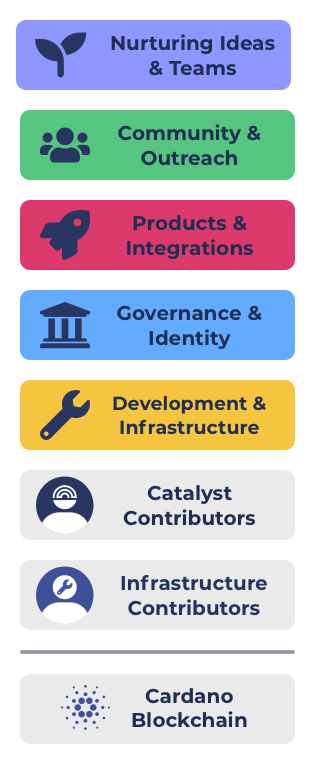
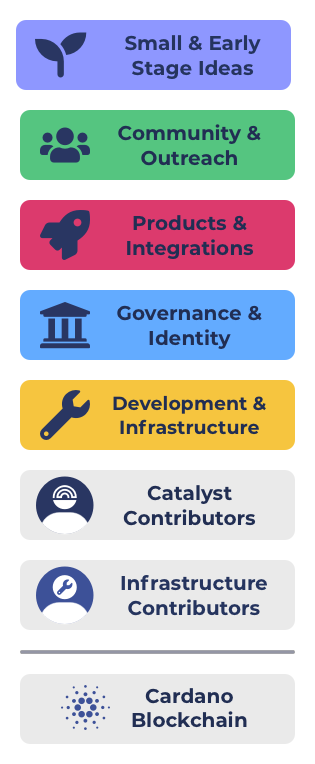
GitBook: [#166] No subject

Changed region(s): [[0.3429, 0.0301, 0.8857, 0.1204]]

diff --git a/idea-categories/small-and-early-stage-ideas.md b/idea-categories/small-and-early-stage-ideas.md
@@ -1,14 +1,14 @@
 ---
 description: >-
-  Nurturing ideas & teams aims to support, grow and diversify the ideas and
-  teams that exist in the ecosystem
+  Small & early stage ideas aims to support and nurture a diversity of ideas in
+  the ecosystem
 ---
 
-# Nurturing Ideas & Teams
+# Small & Early Stage Ideas
 
 ![](../.gitbook/assets/experimental-categories.png)
 
-Nurturing Ideas & Teams is an [experimental category](https://docs.catalystcontributors.org/idea-categorisation-analysis/experimental-categories-analysis/nurturing-ideas-and-team-category). It will need to be analysed once used to determine the overall impact of the category. Based on these learnings the category can either be removed or further refined if it creates sufficient impact.
+Small & early stage ideas is an [experimental category](https://docs.catalystcontributors.org/idea-categorisation-analysis/experimental-categories-analysis/nurturing-ideas-and-team-category). It will need to be analysed once used to determine the overall impact of the category. Based on these learnings the category can either be removed or further refined if it creates sufficient impact.
 
 
 
@@ -16,7 +16,7 @@ Nurturing Ideas & Teams is an [experimental category](https://docs.catalystcontr
 
 **Category Title**
 
-Nurturing Ideas & Teams
+Small & Early Stage Ideas
 
 **Category question**
 
@@ -48,7 +48,7 @@ Individual success metrics are added for the different types of proposal in the 
 
 **Overview**
 
-Nurturing Ideas is focused on the following important areas:
+Small & early stage ideas is focused on the following important areas:
 
 * New and existing ideas that can benefit from a smaller budget to nurture their initial exploration and growth efforts.
 * Support of new teams joining the ecosystem looking for some initial capital to start off their project.&#x20;
@@ -59,9 +59,9 @@ Nurturing Ideas is focused on the following important areas:
 
 The ecosystem needs to have a way to easily introduce and nurture new and existing ideas that could provide impact to the ecosystem.
 
-Having a category focussed on nurturing ideas can help to ensure that there is always exploration of new ideas, processes and approaches that could benefit the ecosystem.&#x20;
+Having a category focussed on supporting smaller or early stage ideas can help to ensure that there is always exploration of new ideas, processes and approaches that could benefit the ecosystem.&#x20;
 
-Nurturing ideas & teams is a category that applies a cap to the amount of funding a proposal can request. This provides a less competitive environment for teams to find initial funding to nurture their growth and evolution.
+Small & early stage ideas is a category that applies a cap to the amount of funding a proposal can request. This provides a less competitive environment for teams to find initial funding to nurture their growth and evolution.
 
 This category can be seen as an on ramp for new ideas and teams for trying out something to then show the community what they are capable of achieving.
 
@@ -83,7 +83,7 @@ Proposers should clearly identify what problem they are trying to solve, how the
 
 **Proposal maximum budget**
 
-The maximum proposal budget that can be requested is $40,000.&#x20;
+The maximum proposal budget that can be requested is $25,000.&#x20;
 
 ****
 

diff --git a/questions-and-discussion/faqs/using-both-categories-and-challenges.md b/questions-and-discussion/faqs/using-both-categories-and-challenges.md
@@ -37,7 +37,7 @@ The following looks to compare why the community may choose to use just categori
 * ****[**Broad categorisation disadvantages**](https://docs.catalystcontributors.org/idea-categorisation-analysis/categorisation-approaches/broad-vs-specific-categorisations) - Using just broad categories would mean getting all the disadvantages that are outlined in the analysis of the implications of broad categorisation. Those disadvantages include:
   * **Lower precision for directing funding** - Solving this issue is covered in [approaches for directing funding](https://docs.catalystcontributors.org/idea-categorisation-analysis/idea-categorisation-analysis/approaches-for-directing-funding)
   * **Lower proposal visibility** - Solving this issue is covered in [approaches for directing funding](https://docs.catalystcontributors.org/idea-categorisation-analysis/idea-categorisation-analysis/approaches-for-directing-funding)
-  * **Increased funding difficulty for smaller teams** - Solving this issue can be supported by a category for [nurturing ideas](../../idea-funding-categories/nurturing-ideas-and-teams.md) and also is helped by more [approaches for directing funding](https://docs.catalystcontributors.org/idea-categorisation-analysis/idea-categorisation-analysis/approaches-for-directing-funding)
+  * **Increased funding difficulty for smaller teams** - Solving this issue can be supported by a category for [small & early stage ideas](../../idea-categories/small-and-early-stage-ideas.md) and also is helped by more [approaches for directing funding](https://docs.catalystcontributors.org/idea-categorisation-analysis/idea-categorisation-analysis/approaches-for-directing-funding)
 
 ****
 

diff --git a/README.md b/README.md
@@ -25,7 +25,7 @@ Category types in the list below below include:
 
 The following funding categories are not currently adopted and are just suggestions. Some or all of them could be adopted at some point in the future for the Catalyst funding process.&#x20;
 
-<figure><img src=".gitbook/assets/funding-categories (1).png" alt=""><figcaption></figcaption></figure>
+<figure><img src=".gitbook/assets/funding-categories.png" alt=""><figcaption></figcaption></figure>
 
 **Community & Outreach**
 
@@ -59,11 +59,11 @@ Development & Infrastructure focuses on proposals that will help improve and mai
 
 ****
 
-**Nurturing Ideas & Teams**
+**Small & Early Stage Ideas**
 
-Nurturing Ideas & Teams is about exploring how we can help to foster growth for ideas and new teams forming in the ecosystem. Any proposal type is welcomed as long as it is about the Cardano ecosystem in someway. There is a $40,000 maximum budget for proposals which helps to increase the number and diversity of teams and ideas that can be funded.
+Small & Early Stage Ideas is about exploring how we can help to foster growth for ideas and new teams forming in the ecosystem. Any proposal type is welcomed as long as it is about the Cardano ecosystem in someway. There is a $40,000 maximum budget for proposals which helps to increase the number and diversity of teams and ideas that can be funded.
 
-**=>** [**Read the Nurturing Ideas & Teams brief**](idea-funding-categories/nurturing-ideas-and-teams.md)
+**=>** [**Read the Small & Early Stage Ideas brief**](idea-categories/small-and-early-stage-ideas.md)
 
 ****
 

diff --git a/budget-weighting-votes/fund-8/README.md b/budget-weighting-votes/fund-8/README.md
@@ -93,10 +93,10 @@ If the fund 9 total budget was $32 million and the community voted for 70% total
 * **Community & Outreach**
 * **Products & Integrations**
 * **Governance & Identity**
+* **Development & Infrastructure**
 * **Catalyst Contributors**
-* **Development & Node Operation**
-* **Cardano Contributors**
-* **Nurturing Ideas & Teams**
+* **Infrastructure Contributors**
+* **Small & Early Stage Ideas**
 
 ****
 
@@ -110,9 +110,9 @@ If the total funding allocation was $22,400,000, as per this first decision exam
 | Products & Integrations      | 20         | $4,480,000                |
 | Governance & Identity        | 20         | $4,480,000                |
 | Catalyst Contributors        | 7          | $1,568,000                |
-| Development & Node Operation | 25         | $5,600,000                |
-| Cardano Contributors         | 6          | $1,344,000                |
-| Nurturing Ideas & Teams      | 7          | $1,568,000                |
+| Development & Infrastructure | 25         | $5,600,000                |
+| Infrastructure Contributors  | 6          | $1,344,000                |
+| Small & Early Stage Ideas    | 7          | $1,568,000                |
 
 **NOTE**: The above example amounts would be rounded to the closest $25,000 as this is required in the funding process.
 

diff --git a/budget-weighting-votes/fund-9/README.md b/budget-weighting-votes/fund-9/README.md
@@ -54,9 +54,9 @@ This is a fund 9 vote for setting the budgets of the funding categories that are
 * **Products & Integrations**
 * **Governance & Identity**
 * **Development & Infrastructure**
-* **Nurturing Ideas & Teams**
+* **Small & Early Stage Ideas**
 * **Catalyst Contributors**
-* **Cardano Contributors**
+* **Infrastructure Contributors**
 
 ****
 
@@ -82,9 +82,9 @@ Applying some percentages to each category that add up to 100% produces the foll
 | Products & Integrations      | 20         | 2,560,000 ADA              |
 | Governance & Identity        | 20         | 2,560,000 ADA              |
 | Development & Infrastructure | 25         | 3,200,000 ADA              |
-| Nurturing Ideas & Teams      | 6          | 768,000 ADA                |
+| Small & Early Stage Ideas    | 6          | 768,000 ADA                |
 | Catalyst Contributors        | 7          | 896,000 ADA                |
-| Cardano Contributors         | 7          | 896,000 ADA                |
+| Infrastructure Contributors  | 7          | 896,000 ADA                |
 | **Total**                    | **100**    | **12,800,000 ADA**         |
 
 **NOTE**: The amounts in the example above would then need to be rounded to the closest 25,000 ADA. This is currently a required part of the funding process.

diff --git a/budget-weighting-votes/fund-8/voting-results-fund-8.md b/budget-weighting-votes/fund-8/voting-results-fund-8.md
@@ -16,9 +16,9 @@ description: Results for the fund 8 budget weighting vote
 * **Products & Integrations** - 21%
 * **Governance & Identity** - 16%
 * **Catalyst Contributors** - 11%
-* **Development & Node Operation** - 21%&#x20;
-* **Cardano Contributors** - 8%
-* **Nurturing Ideas & Teams** - 9%
+* **Development & Infrastructure** - 21%&#x20;
+* **Infrastructure Contributors** - 8%
+* **Small & Early Stage Ideas** - 9%
 
 
 
@@ -34,9 +34,9 @@ Total budget weighting allocated to all categories = $16,000,000 x 70% = $11,200
 * **Products & Integrations** - $2,350,000 (unrounded $2,352,000)
 * **Governance & Identity** - $1,800,000 (unrounded $1,792,000)
 * **Catalyst Contributors** - $1,225,000 (unrounded $1,232,000)
-* **Development & Node Operation** - $2,350,000 (unrounded $2,352,000)
-* **Cardano Contributors** - $900,000 (unrounded $896,000)
-* **Nurturing Ideas & Teams** - $1,000,000 (unrounded $1,008,000)
+* **Development & Infrastructure** - $2,350,000 (unrounded $2,352,000)
+* **Infrastructure Contributors** - $900,000 (unrounded $896,000)
+* **Small & Early Stage Ideas** - $1,000,000 (unrounded $1,008,000)
 
 ****
 

diff --git a/budget-weighting-votes/fund-9/fund-9-voting-results.md b/budget-weighting-votes/fund-9/fund-9-voting-results.md
@@ -10,9 +10,9 @@ description: Results for the fund 9 budget weighting vote
 * **Products & Integrations** - 3,000,000 ADA
 * **Governance & Identity** - 2,000,000 ADA
 * **Development & Infrastructure** - 2,925,000 ADA
-* **Nurturing Ideas & Teams** - 1,000,000 ADA
+* **Small & Early Stage Ideas** - 1,000,000 ADA
 * **Catalyst Contributors** - 1,100,000 ADA
-* **Cardano Contributors** - 975,000 ADA
+* **Infrastructure Contributors** - 975,000 ADA
 
 **Total**: 12,800,000 ADA
 

diff --git a/SUMMARY.md b/SUMMARY.md
@@ -8,7 +8,7 @@
 * [Products & Integrations](idea-funding-categories/products-and-integrations.md)
 * [Governance & Identity](idea-funding-categories/governance-and-identity.md)
 * [Development & Infrastructure](idea-funding-categories/development-and-infrastructure.md)
-* [Nurturing Ideas & Teams](idea-funding-categories/nurturing-ideas-and-teams.md)
+* [Small & Early Stage Ideas](idea-categories/small-and-early-stage-ideas.md)
 
 ## Contributor Categories
 

diff --git a/budget-weighting-votes/fund-8/budget-weighting-considerations.md b/budget-weighting-votes/fund-8/budget-weighting-considerations.md
@@ -85,7 +85,7 @@ If you have some suggestions for other factors to consider for budget weighting 
 
 
 
-### Cardano Contributors
+### Infrastructure Contributors
 
 **Reasons for a larger budget weighting**
 
@@ -99,7 +99,7 @@ If you have some suggestions for other factors to consider for budget weighting 
 
 
 
-### Nurturing Ideas & Teams
+### Small & Early Stage Ideas
 
 **Reasons for a larger budget weighting**
 

diff --git a/budget-weighting-votes/fund-9/budget-weighting-considerations.md b/budget-weighting-votes/fund-9/budget-weighting-considerations.md
@@ -101,7 +101,7 @@ If you have some suggestions for other factors to consider for budget weighting 
 
 
 
-### Nurturing Ideas & Teams
+### Small & Early Stage Ideas
 
 **Reasons for a larger budget weighting**
 
